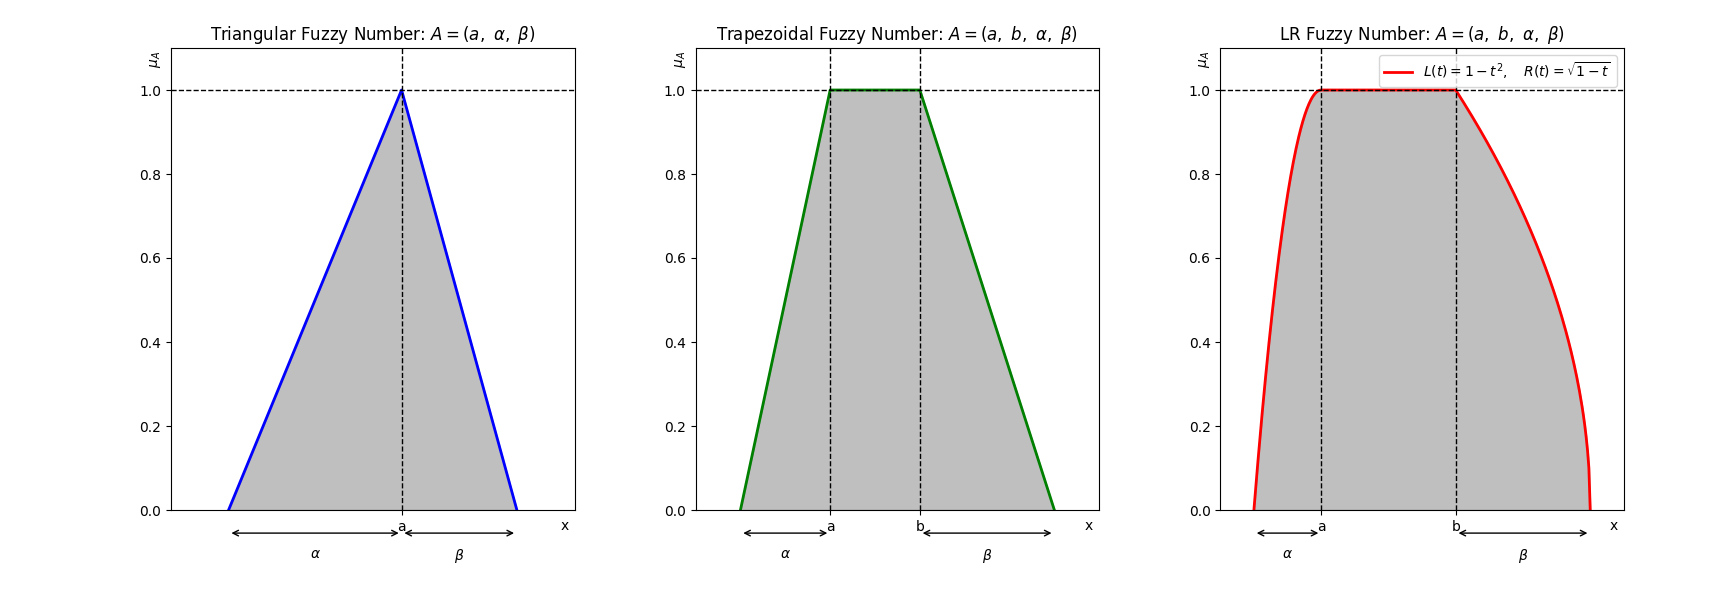
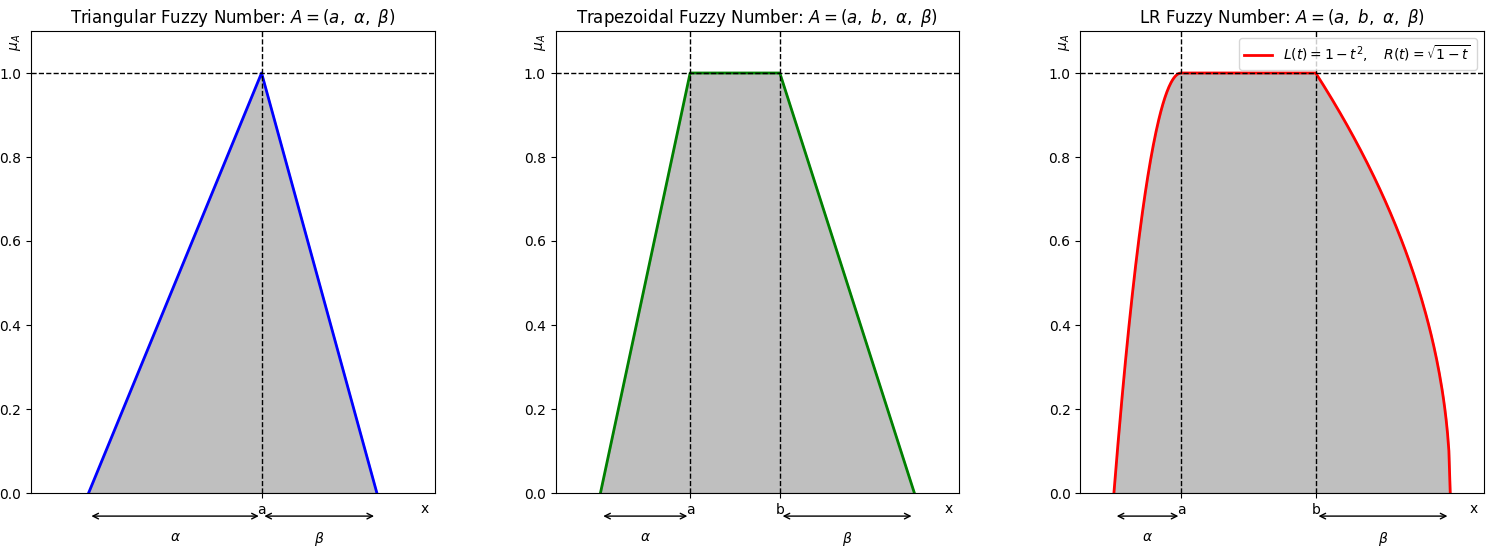
Reviewed some stuff of chapter 1 and added the fuzzy numbers image

diff --git a/ch1/Fuzzy_Numbers.tex b/ch1/Fuzzy_Numbers.tex
@@ -3,8 +3,9 @@ According to Nguyen \signal{ (referenciar el paper de los teoremas de Nguyen)}:
 
 \say{Interval analysis deals with closed bounded intervals (complex convex sets of $\R$) as an extension of numbers. Fuzzy numbers can be regarded as 
 an extension of closed bounded intervals, [...]} 
+\\
 
-
+\signal{Explain that we want to define fuzzy numbers to work with fuzzy attributes later on}
 
 
 \begin{definition}[Normal Fuzzy Set]
@@ -25,7 +26,7 @@ an extension of closed bounded intervals, [...]}
 
 \begin{remark}
     From the definition of $\alpha$-cut, the \textbf{nested property} states that for
-    $\alpha_1, \alpha_2 \in ]0,1]$ if $\alpha_1\leq \alpha_2$ then $[A]^{\alpha_2}\subseteq [A]^{\alpha_1}$
+    $\alpha_1, \alpha_2 \in [0,1]$ if $\alpha_1\leq \alpha_2$ then $[A]^{\alpha_2}\subseteq [A]^{\alpha_1}$
 \end{remark}
 
 \begin{definition}[Convexity] A fuzzy set $A\in \fuzzy{\R}$ is convex if and only if every $\alpha$-cut is convex in $\R$.
@@ -49,7 +50,7 @@ an extension of closed bounded intervals, [...]}
 
 \begin{proof}
 %1
-The fact that $[A]^\alpha$ is an interval follows from the definition of convex subset in $\R$, which can only be an interval (or a single point).\\
+The fact that $[A]^\alpha$ is an interval follows from the definition of convex subset in $\R$ with the usual topology, which can only be an interval (or a single point).\\
 %2
 Now we prove that $[A]^\alpha$ is closed. For $\alpha \in (0,1]$, since $\mu_A$ is continuous and $[\alpha, 1]$ is closed in $\R$, the set
 \[
@@ -61,8 +62,8 @@ is closed in $\R$. %For $\alpha = 0$, $[A]^0 = \textnormal{cl}(\textnormal{Supp}
 \begin{notation}{Notation}
     We will denote the $\alpha$-cuts of a fuzzy number $A$ as 
     \[[A]^\alpha=[a_1(\alpha),a_2(\alpha)]\textnormal{ where }\begin{cases}
-        a_1(\alpha)&=min[A]^\alpha\\
-        a_2(\alpha)&=max[A]^\alpha\\
+        a_1(\alpha)=min[A]^\alpha&\\
+        a_2(\alpha)=max[A]^\alpha&\\
     \end{cases}\]
 \end{notation}
 
@@ -71,11 +72,11 @@ The condition of bounded support can be relaxed to define \textit{quasi-fuzzy nu
 $$\textnormal{(iv}_{\textnormal{bis}}\textnormal{) } \lim{t}{\infty}A(t) = 0 \quad \land \quad \lim{t}{-\infty}A(t) = 0$$
 \end{note}
 
-The following proposition establishes that the membership function of any fuzzy number can be partitioned into three contiguous intervals: one where it monotonically increases, one where it equals 1, and one where it monotonically decreases. This characterization shows that every fuzzy number can be represented as an LR-fuzzy number.
+The following proposition establishes that the membership function of any fuzzy number can be partitioned into three contiguous intervals: one where it monotonically increases, one where it equals 1, and one where it monotonically decreases. This characterization shows that every fuzzy number can be represented as an LR-fuzzy number (see example \ref{ex:fuzzy_num} for the definition).
 
 \signal{Esta proposición no me acuerdo de dónde la saqué.}
 
-\signal{No sé si debería meterme en rollos de semicontinuidad inferior y superior de los extremos de los niveles.}
+\signal{No sé si debería meterme en rollos de semicontinuidad inferior y superior de los extremos de los niveles. Con esta definición de fuzzy number, creo que me lo puedo ahorrar.}
 
 \begin{proposition}[Membership function of fuzzy numbers]
     Let $A\in \fuzzy{\R}$ be a fuzzy number, then it satisfies:
@@ -100,7 +101,8 @@ The following proposition establishes that the membership function of any fuzzy 
 
 
 % Write me a python function to represent the following fuzzy numbers in theree plots in the same figure. I want the letters to be the same as the ones in the definition and I want them all to be in the positive quadrant. Also write the 1 of the membership in the y axis saying that axis is the membership function of A \mu_A. The area of the fuzzy number must be gray and plot also thin lines for the reference values.
-\begin{example}Here are some examples of fuzzy numbers:
+\begin{example}\label{ex:fuzzy_num}
+    Here are some examples of fuzzy numbers:
     \begin{itemize}
         \item \textbf{Triangular Fuzzy Number:} Defined by a triplet $A\equiv(a, \alpha, \beta)$ where $a$ is the peak and $\alpha$ and $\beta$ the right and left widths respectively. The membership function $\mu_A(x)$ is given by:
         \[
@@ -137,13 +139,20 @@ The following proposition establishes that the membership function of any fuzzy 
     \end{itemize}
 \end{example}
     
+\begin{figure}[H]
+    \centering
+    \includegraphics[width=\textwidth]{ch1/figures/fuzzy_numbers.png}
+    \caption{Plots of Triangular, Trapezoidal, and LR Fuzzy Numbers}
+    \label{fig:fuzzy_numbers}
+\end{figure}
+
+
 
 \subsection{Nguyen's Theorems}
 \signal{We use continuous functions because that way, we get the image of an interval is an interval as well. So then we get another fuzzy number because it maintains the convexity property?}
 
-That is because the image under $f:\R \longrightarrow \R$ continuous of a compact is compact and of a connected set is a connected set. Therefore continuous functions move intervals to intervals.
+That is because the image under $f:\R \longrightarrow \R$ continuous of a compact is compact and of a connected set is a connected set. Therefore continuous functions move closed intervals to closed intervals.
 
-\signal{This is for fuzzy numbers with the definition we gave them!}
 %https://sci-hub.se/10.1016/0165-0114(91)90139-H
 \begin{theorem}[First Nguyen Theorem]
     Let $f:\, \R \longrightarrow \R$ a continuous function and $A\in \R$ any fuzzy number \signal{(creo que vale para LR fuzzy num)}. Then,
@@ -170,7 +179,7 @@ That is because the image under $f:\R \longrightarrow \R$ continuous of a compac
 \end{theorem}
 
 
-\signal{generalization of Nguyen Theorems by Fuller in sectino 1.9 of Fuller 2.}
+\signal{generalization of Nguyen Theorems by Fuller in section 1.9 of Fuller 2.}
 
 
 

diff --git a/ch1/Operations_over_Fuzzy_Sets_and_uzzy_Relations.tex b/ch1/Operations_over_Fuzzy_Sets_and_uzzy_Relations.tex
@@ -102,7 +102,7 @@ There are many results like all t-norms are between the weak and the min, all t-
   \signal{Some examples of t-norms and t-conorms.}
 \end{example}
 
-\signal{$(\fuzzy{X},\cup , \cap , \lnot)$ is a complete, completely distributive, lattice with an involution. This extends the boolean algebra.}
+
 
 \subsection{Fuzzy Relations}
 \signal{Igual esto motivar la definición de relación con un ejemplo a estas alturas es pasarse?}
@@ -116,6 +116,10 @@ Mathematically, this is done with \textbf{relations} which are subsets of the ca
 \begin{definition}[Fuzzy Relation]
   Let $X\neq \emptyset \neq Y$ be classical sets. Then a fuzzy relation $R$ is a fuzzy set on $X\times Y$, i.e., $R\in \fuzzy{X\times Y}$. $R(x,y)$ will denote the degree of membership of $(x,y) \in R$
 \end{definition}
+
+\begin{notation}[label={not:compositionFS}]{Notation}
+  Although Fuzzy Relations are Fuzzy Sets as well, we will often use the name distinction to denote whether the domain is a cartesian product or not.
+\end{notation}
 
 \begin{remark}
   To formally extend the Cartesian product from two sets to \( n \) sets using induction, it is important to observe that it satisfies associativity up to a natural isomorphism, i.e., 
@@ -197,9 +201,6 @@ Applying the definition of projection with the supremum to fuzzy sets, we have a
 \signal{Falta ver que que la proyección nos devuelve el fuzzy set original en los fuzzy cart prod.}
 
 \subsubsection*{Composition of Fuzzy Sets}
-\begin{notation}[label={not:compositionFS}]{Notation}
-    Although Fuzzy Relations are Fuzzy Sets as well, we will often use the name distinction to denote whether the domain is a cartesian product or not.
-  \end{notation}
 
 % The definition of projection allows us to define a composition of fuzzy relations with a common domain. Intuitively, a composition is the projection into the uncommon domain of the intersection of each fuzzy relation.
 
@@ -301,4 +302,6 @@ Which is again a generalization of vector set-valued functions where: $$f(A_1,\l
 In terms of boolean membership function:
 $$\chi _{f(A_1,\ldots,A_n)}(y)=\sup_{(x_1,\ldots,x_n)\in f^{-1}(y)}T(\chi_{A_1}(x_1),\ldots,\chi_{A_n}(x_n)) = \sup_{(x_1,\ldots,x_n)\in f^{-1}(y)}min\{\chi_{A_1}(x_1),\ldots,\chi_{A_n}(x_n)\}$$
 
-Where we have used that every t-norm operates the same on boolean memberships. \signal{Debería haber puesto esto como un remark cuando presento la intersección y la unión.}
+Where we have used that every t-norm operates the same on boolean memberships. \signal{Debería haber puesto esto como un remark cuando presento la intersección y la unión.}\\
+
+\signal{Hay otros principios de extensión como el de Ramik con extensiones canónicas y order preserving operators, etc. No sé hasta qué punto eso podrá serme útil.}

diff --git a/ch1/ch1.tex b/ch1/ch1.tex
@@ -1,7 +1,7 @@
 \chapter{Fuzzy Set Theory and Logic}
 \section*{Motivation}
 Fuzzy sets were introduced by Zadeh...
-\signal{the example of tall people, we want to model imprecision}
+\signal{the example of tall people, we want to model imprecision and why probability theory is not well suited for this.}
 
 \section{Fuzzy Sets}
 \input{ch1/Fuzzy_Sets}

diff --git a/ch1/Fuzzy_Logic.tex b/ch1/Fuzzy_Logic.tex
@@ -2,3 +2,4 @@
 S-implications
 R-implications
 t-norm implications
+\signal{$(\fuzzy{X},\cup , \cap , \lnot)$ is a complete, completely distributive, lattice with an involution. This extends the boolean algebra.}
